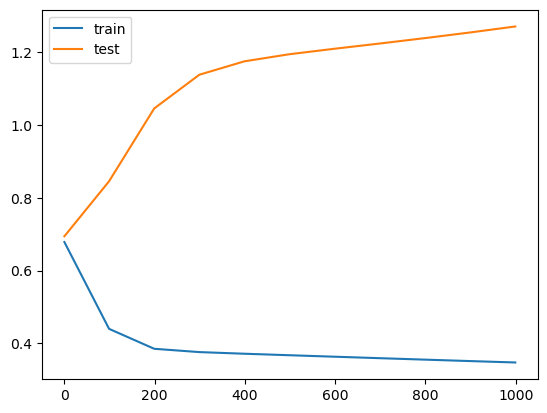
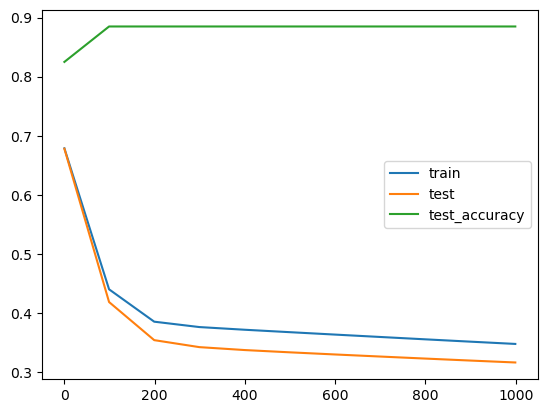
update

diff --git a/run_exp.py b/run_exp.py
@@ -2,12 +2,11 @@ import numpy as np
 import torch 
 import argparse
 import dgp
-import loss
 import models
 import torch.nn as nn
 import torch.optim as optim
 import matplotlib.pyplot as plt
-rho = 1
+
 
 def split_group(X, Y, Z, dim):
     g1 = np.empty((0, dim))
@@ -36,6 +35,7 @@ def main():
     parser.add_argument('-n', '--num_samples', type=int, default=1000)
     parser.add_argument('-d', '--dim', type=int, default=10)
     parser.add_argument('-e', '--num_epochs', type=int, default=1000)
+    parser.add_argument('-r', '--rho', type=float, default=1)
     parser.add_argument('--seed', type=int, default=1)
     parser.add_argument('-lr', '--learning_rate', type=float, default=0.01)
     args = parser.parse_args()
@@ -56,7 +56,7 @@ def main():
 
     n = args.num_samples
     d = args.dim
-
+    rho = args.rho
     if args.model == "Linear":
         model = models.linearModel(d, 1).to(device)
     elif args.model == "NeuralNet":
@@ -94,14 +94,13 @@ def main():
     losses = []
     epoches = []
     losses_test = []
-
+    accuracies = []
     nq = 0.1
     # ntheta = 0.1
     q = np.ones(4) # Four weights
     q = q / np.sum(q)
-    theta = np.random.randn(100) #???
+
     for epoch in range(args.num_epochs):
-        #     # print(value.shape)
         if args.optim == "worstLoss":
             loss = None
             for idx, value in enumerate(groups):
@@ -121,8 +120,6 @@ def main():
 
             q[group_id] = q[group_id] * np.exp(group_loss.item() * nq)
             q = q / np.sum(q)
-            model.zero_grad()
-            optimizer.zero_grad()
             loss = group_loss * q[group_id]
             # group_loss.backward()
             # optimizer.step()
@@ -146,6 +143,7 @@ def main():
                 total = Y_test.size(0)
                 accuracy = correct / total
                 losses_test.append(loss_test)
+                accuracies.append(accuracy)
                 print('Epoch [{}/{}], Loss: {:.4f}'.format(epoch + 1, args.num_epochs, loss.item()))
                 # print the accuracy
                 print('\tAccuracy on test data: {:.2f}%'.format(accuracy * 100))
@@ -155,8 +153,9 @@ def main():
     
     plt.plot(epoches, losses, label="train")
     plt.plot(epoches, losses_test, label="test")
+    # plt.plot(epoches, accuracies, label="test_accuracy")
     plt.legend()
-    plt.savefig(f'images/{args.model}_{args.optim}_{args.DGP}_{args.num_epochs}_{args.num_samples}_{args.dim}.png', bbox_inches='tight')
+    plt.savefig(f'images/{args.model}_{args.optim}_{args.DGP}_{args.num_epochs}_{args.num_samples}_{args.dim}_{args.rho}.png', bbox_inches='tight')
     plt.show()
 
     # with torch.no_grad():

diff --git a/Untitled-1.c b/Untitled-1.c
@@ -1,0 +1,11 @@
+#include <string.h>
+#include <stdio.h>
+char src[25] = "Hello!";
+char dst[25];
+
+int main(void) {
+    strcpy(dst, src);
+    printf("%s\n", src);
+    printf("%s\n", dst);
+    while(1);
+}
